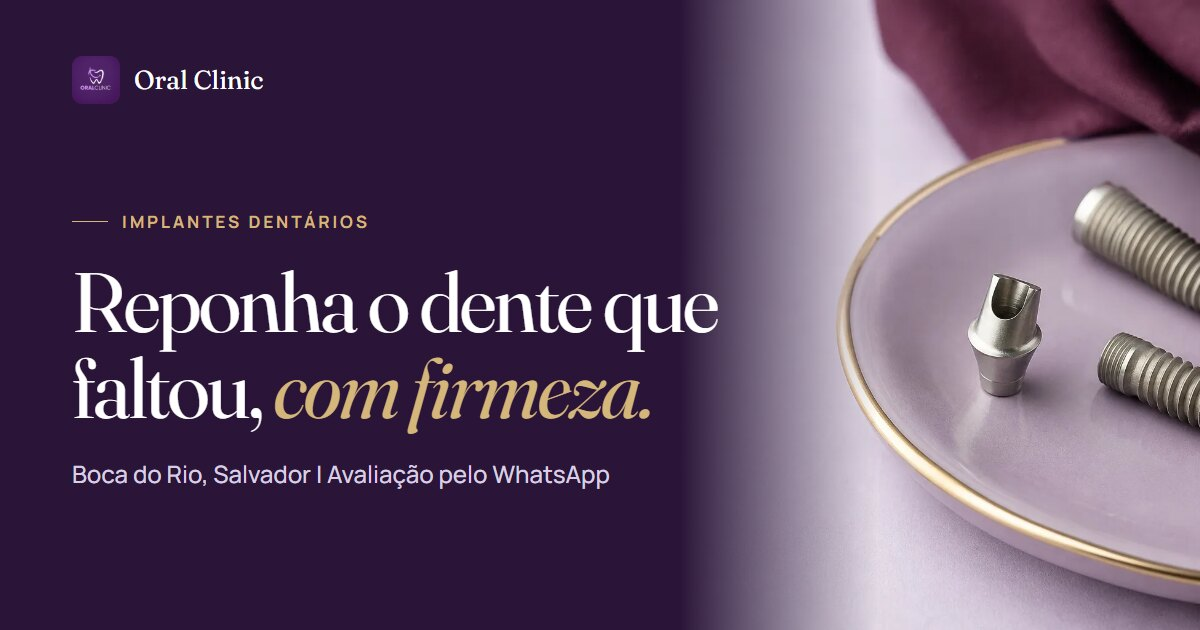
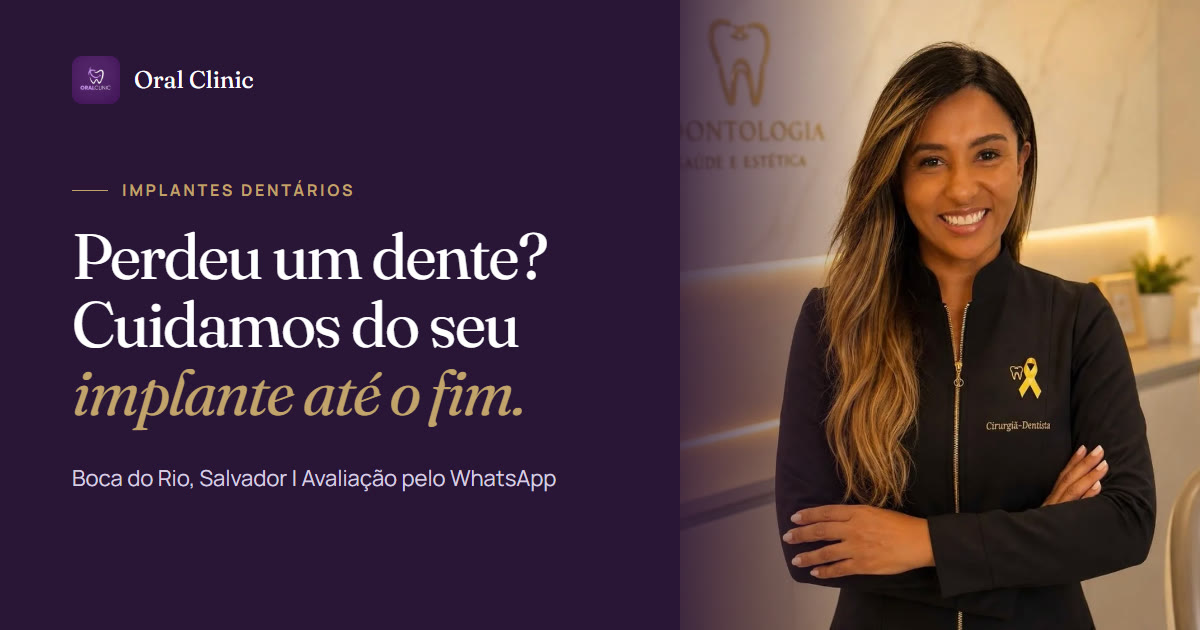
feat(lp): reposiciona a pagina de implantes como servico
Leads chegavam perguntando se a clinica vendia componentes de implante.
Troca imagens de pecas por fotos da Dra. e cenas de atendimento, reescreve
a copy, inclui a secao "Quem cuida de voce" e atualiza a imagem Open Graph.

diff --git a/src/pages/Implantes.jsx b/src/pages/Implantes.jsx
@@ -23,31 +23,31 @@ const CTA = whatsappLink(
 );
 
 const FACTS = [
-  { title: 'Avaliação', text: 'com exames antes de planejar' },
+  { title: '17 anos', text: 'de experiência em odontologia' },
   { title: 'Dra. Marcela', text: 'responsável técnica, CRO-BA 10244' },
   { title: 'Seg a sex', text: 'atendimento na Boca do Rio' },
 ];
 
-const PECAS = [
-  { title: 'Coroa', text: 'A parte visível, feita com aparência natural.', position: 'left', top: 'lg:top-[150px]' },
-  { title: 'Pilar', text: 'Peça que conecta a coroa ao implante.', position: 'right', top: 'lg:top-[290px]' },
-  { title: 'Implante', text: 'Apoio de titânio, colocado no osso.', position: 'left', top: 'lg:top-[480px]' },
+const CUIDADOS = [
+  { title: 'Escuta e avaliação', text: 'Entendemos sua queixa e fazemos exame clínico e de imagem.', position: 'left', top: 'lg:top-[150px]' },
+  { title: 'Plano para o seu caso', text: 'Você conhece as etapas e o valor antes de começar.', position: 'right', top: 'lg:top-[290px]' },
+  { title: 'Acompanhamento', text: 'Retornos na cicatrização e até a prótese final.', position: 'left', top: 'lg:top-[480px]' },
 ];
 
 const CASOS = [
   {
     mark: '1',
-    title: 'Um dente ausente',
+    title: 'Perdi um dente',
     text: 'Reposição individual, sem apoiar nos dentes vizinhos.',
   },
   {
     mark: '2+',
-    title: 'Vários dentes',
+    title: 'Perdi vários dentes',
     text: 'Implantes que sustentam pontes ou próteses parciais.',
   },
   {
     mark: 'Total',
-    title: 'Dentadura que não firma',
+    title: 'Minha dentadura solta',
     text: 'Sua dentadura se mexe? A prótese sobre implantes dá mais estabilidade.',
   },
 ];
@@ -55,9 +55,24 @@ const CASOS = [
 const ETAPAS = [
   { title: 'Avaliação e exames', text: 'Exame clínico e de imagem da região.' },
   { title: 'Planejamento', text: 'Definimos o plano e você o conhece por inteiro.' },
-  { title: 'Cirurgia', text: 'Colocação do implante, com atenção ao conforto.' },
+  { title: 'Cirurgia', text: 'Colocação do implante, com anestesia local.' },
   { title: 'Cicatrização', text: 'Período de integração, com retornos.' },
-  { title: 'Prótese final', text: 'Coroa ou prótese sobre o implante.' },
+  { title: 'Prótese final', text: 'Instalamos a coroa ou a prótese sobre o implante.' },
+];
+
+const EQUIPE_FOTOS = [
+  {
+    src: '/images/lp/dra-paciente.webp',
+    alt: 'Dra. Marcela em atendimento a uma paciente no consultório da Oral Clinic',
+    width: '900',
+    height: '1200',
+  },
+  {
+    src: '/images/lp/atendimento-consultorio.webp',
+    alt: 'Dentista da equipe atendendo uma paciente no consultório da Oral Clinic',
+    width: '675',
+    height: '1200',
+  },
 ];
 
 export const FAQ = [
@@ -81,66 +96,65 @@ export default function Implantes() {
   return (
     <div className="min-h-dvh bg-cloud">
       <main>
-        <section className="relative flex flex-col overflow-hidden bg-lavanda-100 lg:min-h-[900px]">
-          <img
-            src="/images/lp/im-hero.webp"
-            alt="Implantes dentários e pilar de titânio sobre um prato lilás com tecido roxo ao fundo"
-            width="2000"
-            height="1250"
-            loading="eager"
-            fetchpriority="high"
-            decoding="async"
-            className="absolute inset-0 h-full w-full object-cover object-[78%_center]"
-          />
-          <div
-            aria-hidden="true"
-            className="absolute inset-0 bg-lavanda-100/85 lg:bg-transparent"
-          />
-          <LpHeader tone="overlay" ctaHref={CTA} />
-          <div className="relative z-10 flex flex-1 items-center px-5 pb-14 pt-6 sm:px-8 lg:pb-16 lg:pt-10 xl:px-24">
-            <div className="mx-auto w-full max-w-[1248px]">
-              <div className="flex max-w-[640px] flex-col items-start gap-[30px]">
+        <section className="relative flex flex-col overflow-hidden bg-lavanda-100">
+          <LpHeader tone="light" ctaHref={CTA} />
+          <div className="relative z-10 flex flex-1 items-center px-5 pb-16 pt-6 sm:px-8 lg:pb-20 lg:pt-8 xl:px-24">
+            <div className="mx-auto grid w-full max-w-[1248px] items-center gap-12 lg:grid-cols-[minmax(0,1fr)_420px] lg:gap-10 xl:grid-cols-[minmax(0,1fr)_520px]">
+              <div className="flex flex-col items-start gap-[26px]">
                 <Eyebrow>Implantes dentários | Boca do Rio, Salvador</Eyebrow>
                 <Headline
-                  lines={['Reponha o dente', 'que faltou,', 'com firmeza.']}
+                  lines={['Perdeu um dente?', 'Cuidamos do seu', 'implante até o fim.']}
                   place="Implantes dentários na Boca do Rio, em Salvador"
-                  className="text-[2.75rem] sm:text-[4.25rem] lg:text-[4.875rem] lg:leading-[1.03]"
+                  className="text-[2.125rem] sm:text-[3.5rem] lg:text-[3.125rem] xl:text-[3.375rem] min-[1400px]:text-[4.5rem]"
                 />
                 <p className="max-w-[500px] text-lg leading-relaxed text-graphite">
-                  Na Oral Clinic, na Boca do Rio, em Salvador, o implante é planejado caso a caso, com avaliação e exames antes de qualquer procedimento.
+                  Avaliação, exames, cirurgia e retornos com a equipe da Oral Clinic, na Boca do Rio. Cada etapa é explicada antes de começar.
                 </p>
                 <WhatsAppButton href={CTA}>Agendar avaliação de implante</WhatsAppButton>
+                <p className="max-w-[500px] text-sm leading-normal text-graphite">
+                  Somos uma clínica e atendemos pacientes. Não vendemos peças nem componentes de implante.
+                </p>
               </div>
+              <FramedPhoto
+                src="/images/lp/dra-marcela-implantes.webp"
+                alt="Dra. Marcela Karin, responsável técnica da Oral Clinic, sorrindo no consultório"
+                width="1040"
+                height="1126"
+                eager
+                fetchPriority="high"
+                objectPosition="center top"
+                className="aspect-[520/600] w-[calc(100%-0.75rem)] max-w-[520px] justify-self-center lg:w-[calc(100%-1.5rem)]"
+              />
             </div>
           </div>
           <FactsBar facts={FACTS} tone="dark" compact className="relative z-10 bg-ink" />
         </section>
 
         <Section innerClassName="flex flex-col gap-16">
-          <SectionTitle eyebrow="Como é o implante" className="items-center text-center">
-            Três peças, uma estrutura firme.
+          <SectionTitle eyebrow="Como cuidamos de você" className="items-center text-center">
+            Três cuidados, um tratamento completo.
           </SectionTitle>
           <div className="relative flex flex-col items-center gap-10 lg:block lg:h-[720px]">
             <FramedPhoto
-              src="/images/lp/im-pecas.webp"
-              alt="Coroa, pilar e implante de titânio dispostos lado a lado"
-              width="1000"
-              height="1500"
+              src="/images/lp/im-servico-plano.webp"
+              alt="Dentista mostrando uma radiografia panorâmica à paciente e explicando o plano de tratamento"
+              width="960"
+              height="1440"
               radius="rounded-full"
               className="aspect-[480/720] w-[calc(100%-0.75rem)] max-w-[480px] lg:absolute lg:left-1/2 lg:top-0 lg:w-[480px] lg:-translate-x-[calc(50%+12px)]"
             />
-            {PECAS.map((peca, index) => (
+            {CUIDADOS.map((cuidado, index) => (
               <div
-                key={peca.title}
-                className={`flex w-full max-w-[480px] flex-col gap-2 border-t border-ink/[0.09] pt-[18px] lg:absolute lg:w-[330px] lg:max-w-none ${peca.top} ${
-                  peca.position === 'right' ? 'lg:right-0' : 'lg:left-0 lg:items-end lg:text-right'
+                key={cuidado.title}
+                className={`flex w-full max-w-[480px] flex-col gap-2 border-t border-ink/[0.09] pt-[18px] lg:absolute lg:w-[330px] lg:max-w-none ${cuidado.top} ${
+                  cuidado.position === 'right' ? 'lg:right-0' : 'lg:left-0 lg:items-end lg:text-right'
                 }`}
               >
                 <span className="font-display text-[0.94rem] text-champagne-dark">
                   {String(index + 1).padStart(2, '0')}
                 </span>
-                <h3 className="font-display text-[2rem] leading-tight tracking-[-0.02em] text-ink">{peca.title}</h3>
-                <p className="text-base leading-6 text-graphite">{peca.text}</p>
+                <h3 className="font-display text-[1.875rem] leading-tight tracking-[-0.02em] text-ink">{cuidado.title}</h3>
+                <p className="text-base leading-6 text-graphite">{cuidado.text}</p>
               </div>
             ))}
           </div>
@@ -171,14 +185,14 @@ export default function Implantes() {
 
         <Section bg="bg-ink" innerClassName="grid items-center gap-14 lg:grid-cols-[600px_1fr] lg:gap-[88px]">
           <FramedPhoto
-            src="/images/lp/im-modelo.webp"
-            alt="Modelo de arcada dentária com implantes sobre superfície clara"
-            width="1200"
-            height="1320"
+            src="/images/lp/im-servico-cuidado.webp"
+            alt="Dentista tranquilizando uma paciente na cadeira odontológica, com a assistente ao lado"
+            width="1000"
+            height="1000"
             className="aspect-[576/636] w-[calc(100%-0.75rem)] max-w-[576px] lg:w-[576px]"
           />
           <div className="flex flex-col gap-7">
-            <Eyebrow tone="light">O caminho</Eyebrow>
+            <Eyebrow tone="light">Seu tratamento, passo a passo</Eyebrow>
             <h2 className="lp-h2 text-white lg:text-[3rem] lg:leading-[1.08]">Cada etapa explicada antes de começar.</h2>
             <RuleList tone="dark">
               {ETAPAS.map((etapa, index) => (
@@ -195,10 +209,34 @@ export default function Implantes() {
           </div>
         </Section>
 
+        <Section innerClassName="grid items-center gap-12 lg:grid-cols-[480px_1fr] lg:gap-[88px]">
+          <div className="flex flex-col gap-6">
+            <SectionTitle eyebrow="Quem cuida de você">Dra. Marcela Karin e equipe.</SectionTitle>
+            <p className="text-lg leading-relaxed text-graphite">
+              Com 17 anos de experiência, a Dra. Marcela é a responsável técnica da Oral Clinic. Aqui, você sabe quem cuida do seu tratamento e tem com quem falar em cada etapa.
+            </p>
+            <p className="text-sm font-semibold text-ink">Cirurgiã-dentista, CRO-BA 10244</p>
+          </div>
+          <div className="grid grid-cols-2 gap-3 sm:gap-6">
+            {EQUIPE_FOTOS.map((foto) => (
+              <img
+                key={foto.src}
+                src={foto.src}
+                alt={foto.alt}
+                width={foto.width}
+                height={foto.height}
+                loading="lazy"
+                decoding="async"
+                className="aspect-[328/460] h-full w-full rounded-3xl object-cover"
+              />
+            ))}
+          </div>
+        </Section>
+
         <FaqColumns items={FAQ} />
         <CtaFinal
           title="Agende sua avaliação de implantes na Boca do Rio."
-          lead="Envie uma mensagem e escolha o horário da sua avaliação com exames."
+          lead="Fale com a nossa equipe pelo WhatsApp e escolha o melhor horário."
           buttonLabel="Agendar avaliação de implante"
           href={CTA}
         />

diff --git a/src/components/lp/ui.jsx b/src/components/lp/ui.jsx
@@ -108,6 +108,7 @@ export function FramedPhoto({
   offset = 'right',
   className = '',
   eager = false,
+  fetchPriority,
   width,
   height,
   objectPosition,
@@ -125,6 +126,7 @@ export function FramedPhoto({
         width={width}
         height={height}
         loading={eager ? 'eager' : 'lazy'}
+        fetchpriority={fetchPriority}
         decoding="async"
         className={`relative h-full w-full object-cover ${radius}`}
         style={objectPosition ? { objectPosition } : undefined}
